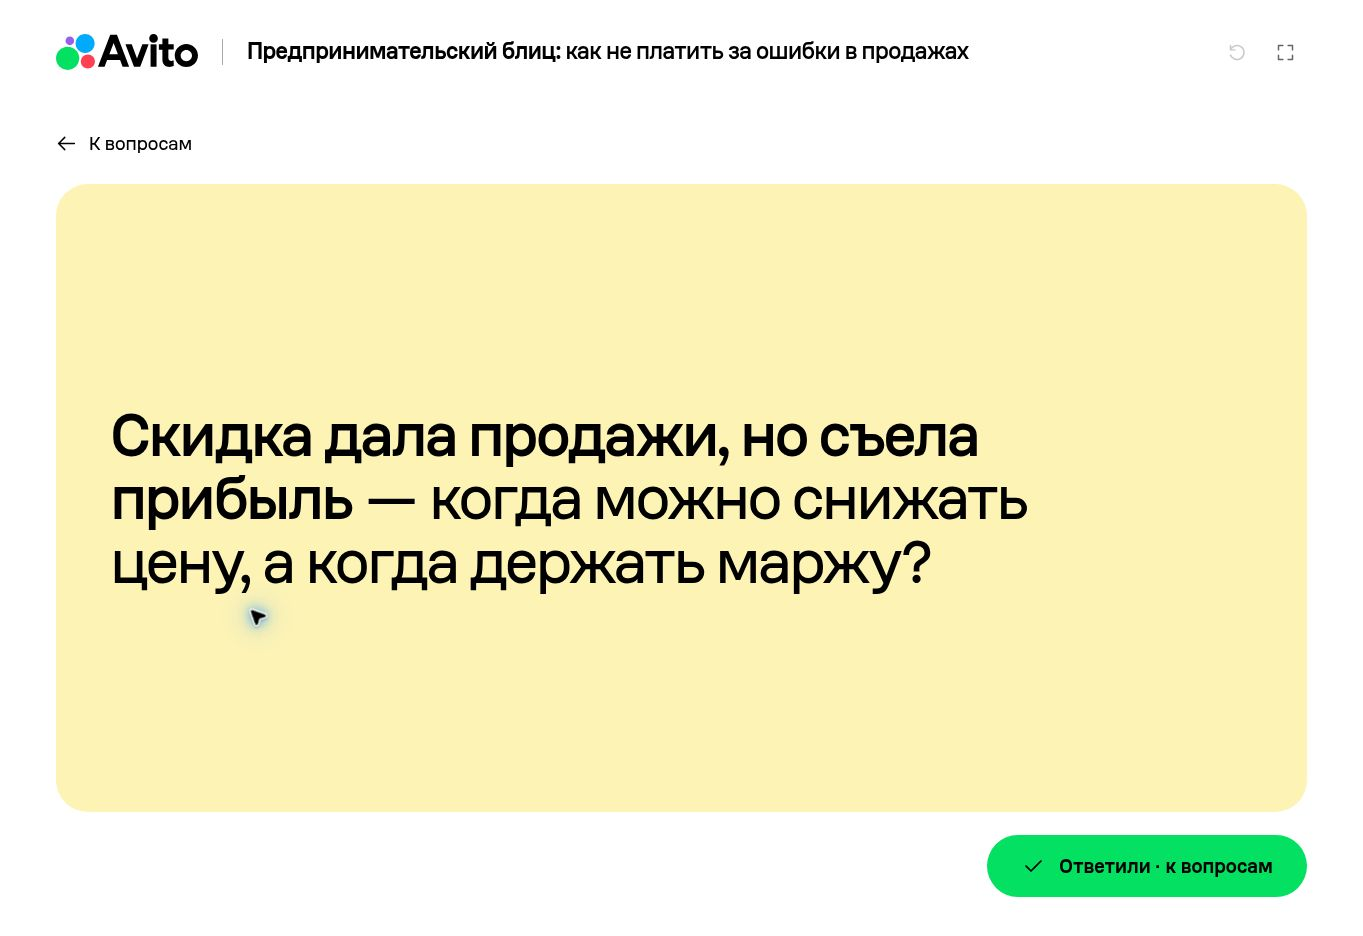
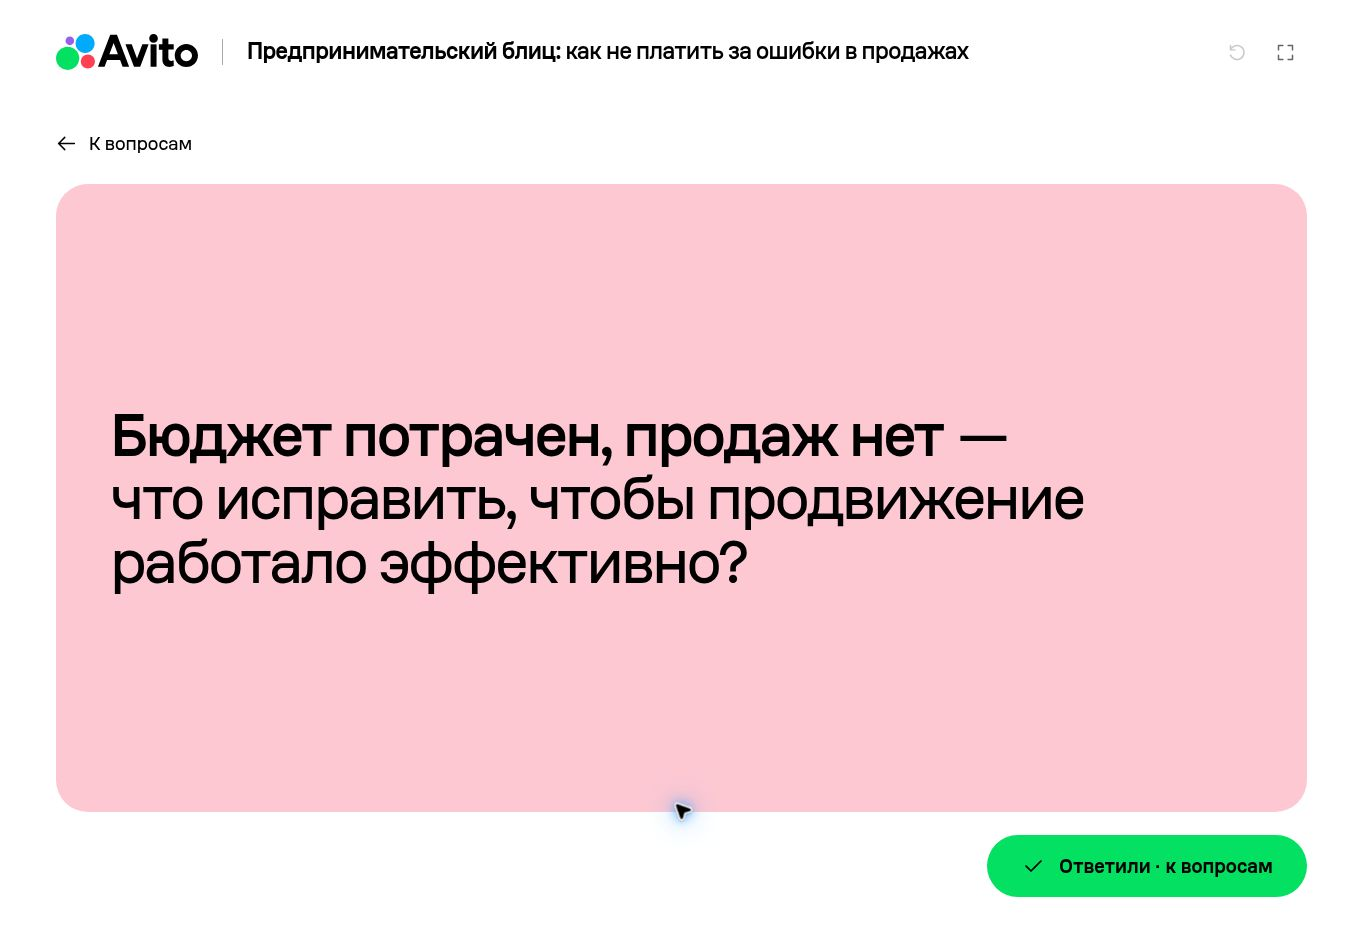
Document verified question typography and refresh preview

diff --git a/design-qa.md b/design-qa.md
@@ -39,3 +39,9 @@ Desktop presentation was visually verified. Mobile layout retains a single-colum
 ## Copy follow-up — 26 September 2026
 
 Reviewed all nine questions for ё. Only category spellings required correction: «Деньги любят счёт» and «Куда ушёл бюджет». Browser verification confirmed both visible headings and all six associated card accessible names. The full-view evidence in `docs/preview.jpg` was refreshed; the earlier question/answered captures document the interaction check before this copy-only correction. Final result remains passed.
+
+## Typography follow-up — 26 September 2026
+
+Applied the client’s two question-layout comments: the introductory clause ends with a nonbreaking em dash, and the question prompt starts on its own line. Short statements such as «продаж нет» and «заявок мало», together with short prepositions/conjunctions, use nonbreaking spaces. All nine original question strings remain unchanged.
+
+Verified all nine question screens on the live `type-8` deployment at 1363 × 936: all texts render with the intended nonbreaking spaces and no horizontal page overflow. Visually checked the longest question and both affected budget questions. Refreshed `docs/question-preview.jpg` with the corrected pink question. Mobile viewport was not separately captured.
